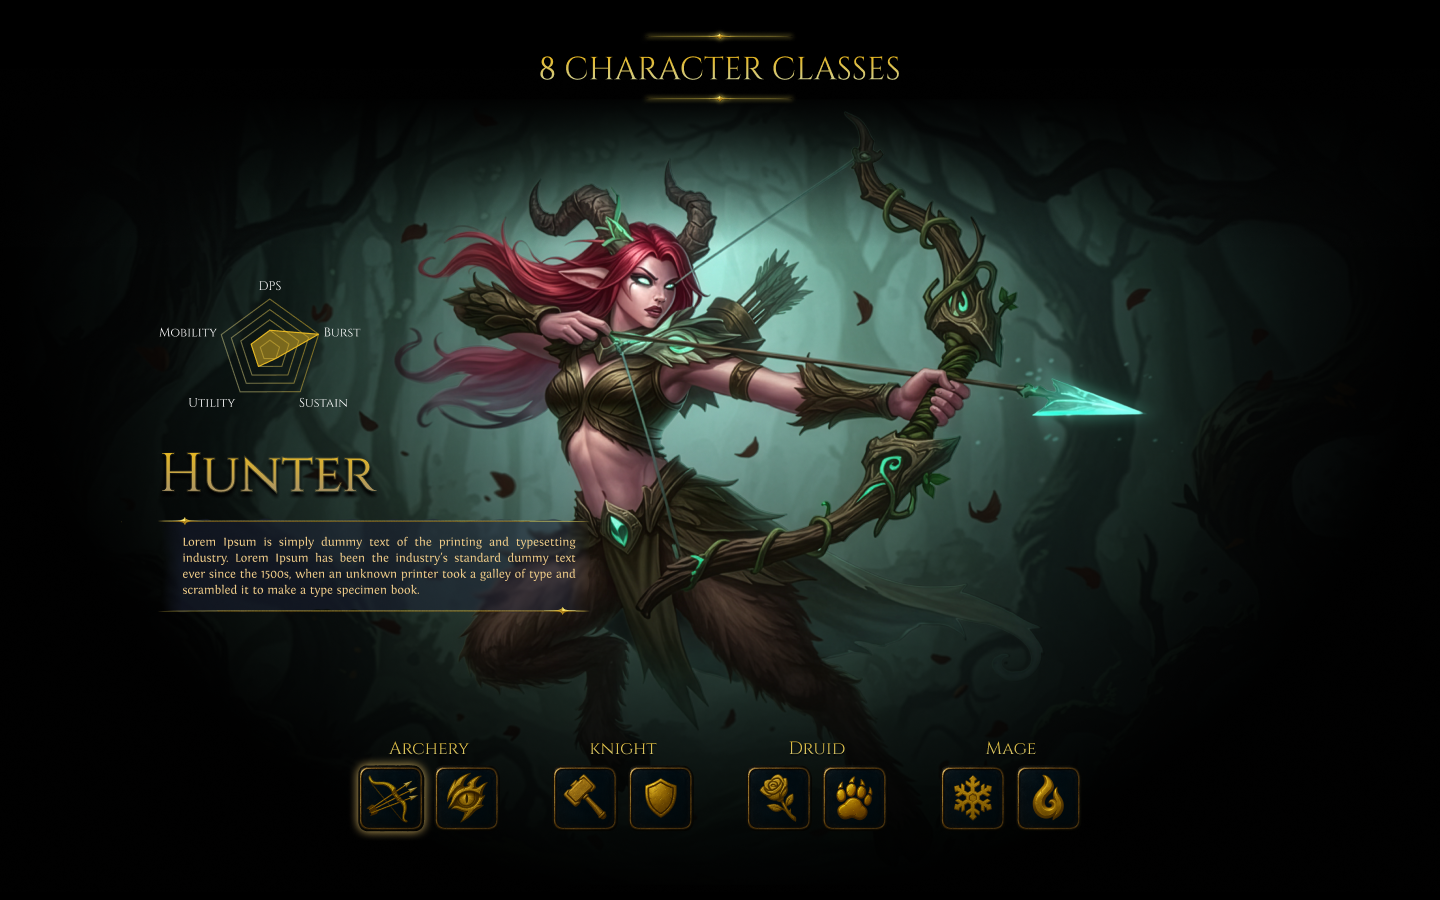
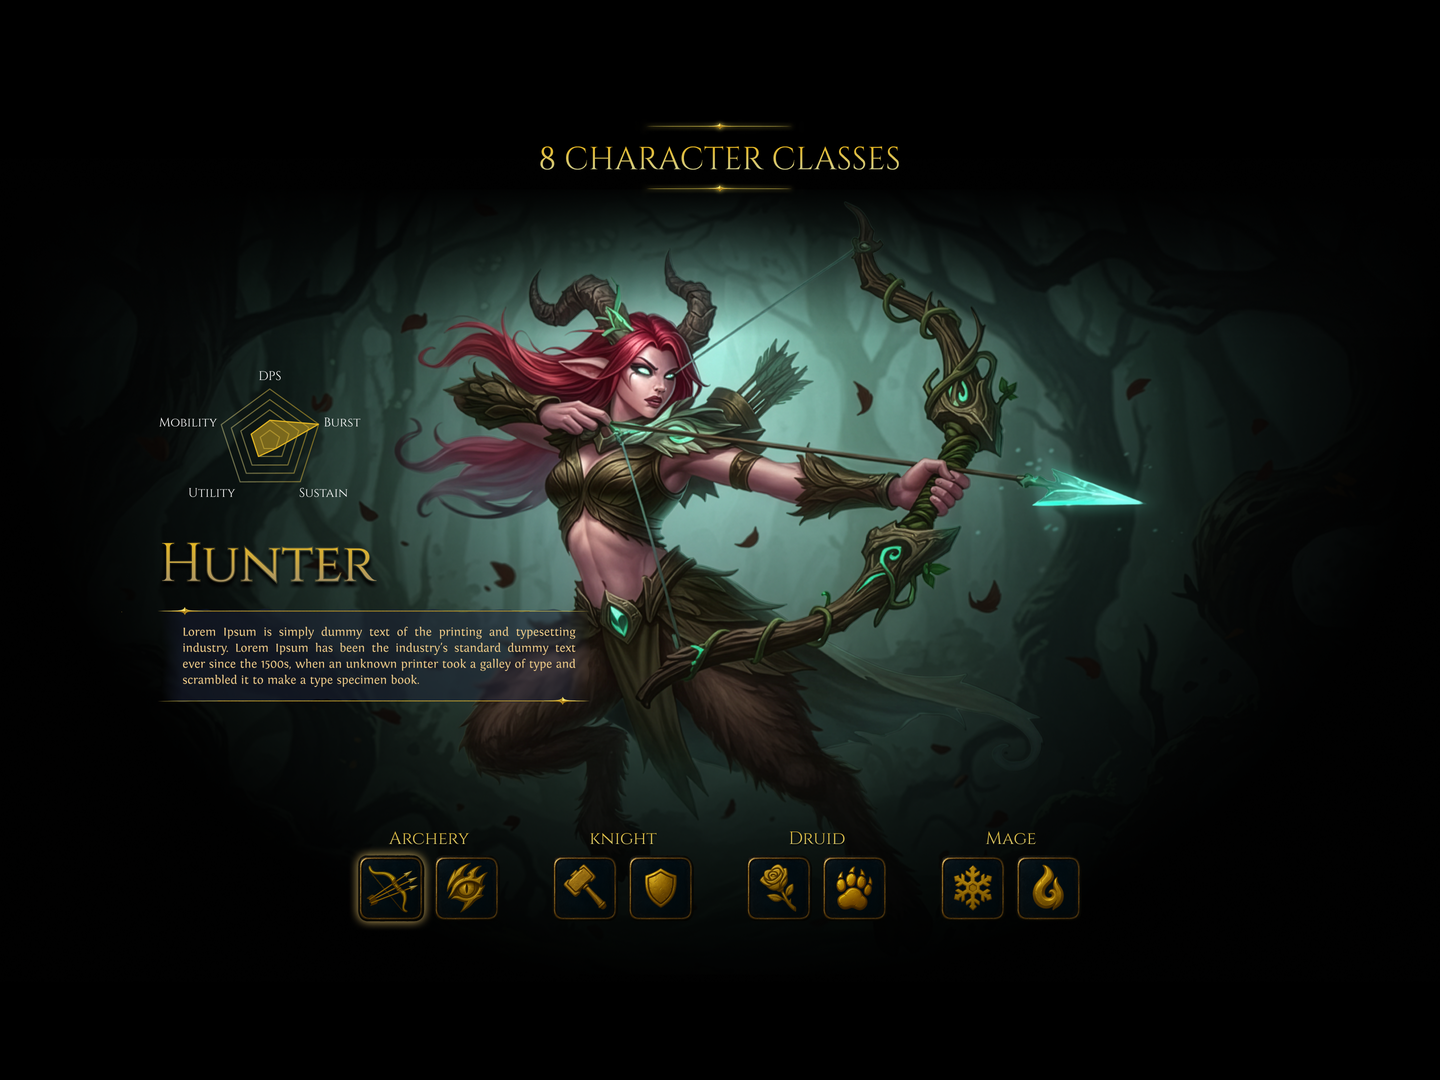
Fix class size inconsistency: re-export hunter to 1440x1080
Hunter image was 1440x900 while all other classes were 1440x1080,
causing a visible jump when switching between classes. Re-exported
from Figma and adjusted container aspect ratio to match.

diff --git a/src/components/Classes.tsx b/src/components/Classes.tsx
@@ -26,7 +26,7 @@ export default function Classes() {
   const [activeClass, setActiveClass] = useState('hunter');
 
   return (
-    <section className="relative w-full bg-black overflow-hidden" style={{ aspectRatio: '1440 / 900', zIndex: 10 }}>
+    <section className="relative w-full bg-black overflow-hidden" style={{ aspectRatio: '1440 / 1080', zIndex: 10 }}>
       {/* All class images stacked absolutely */}
       {classes.map(cls => (
         <img
